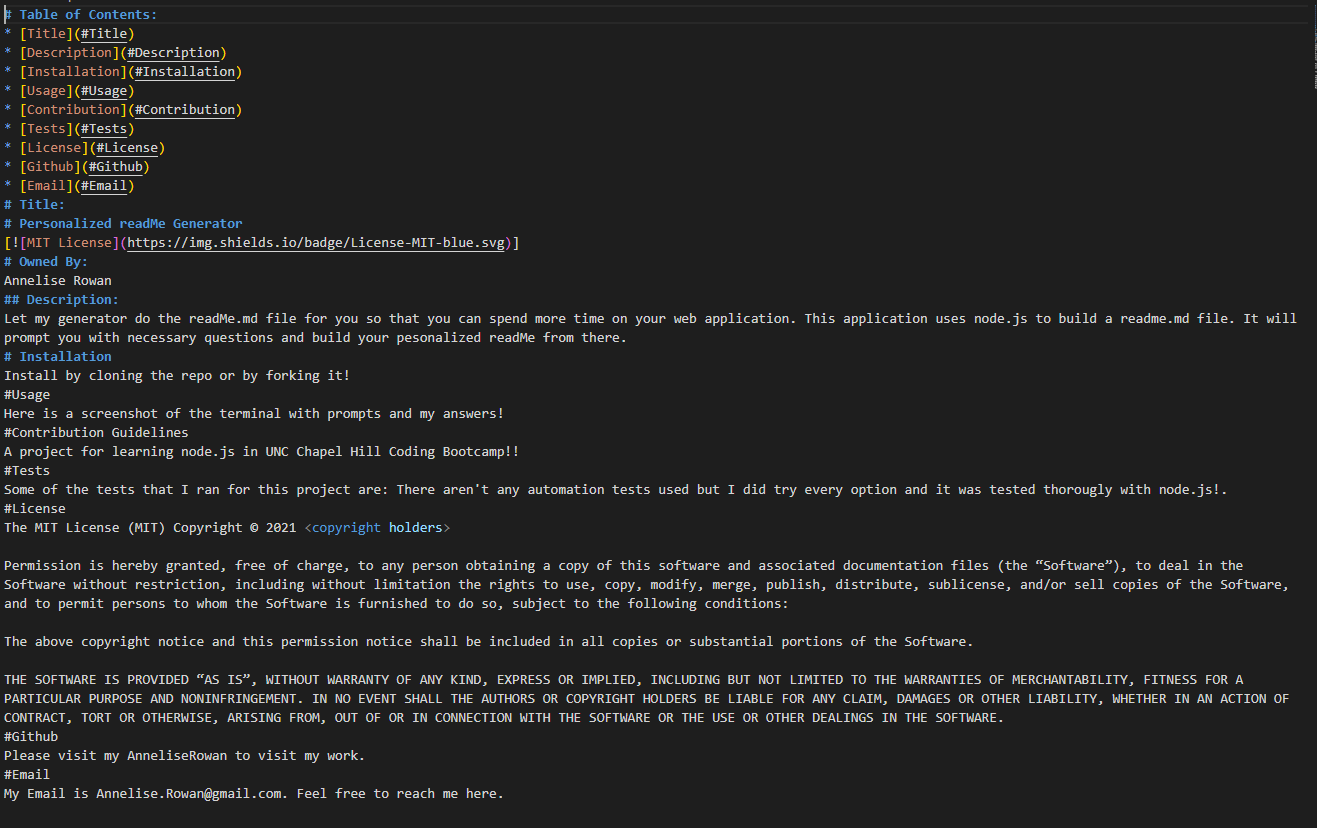
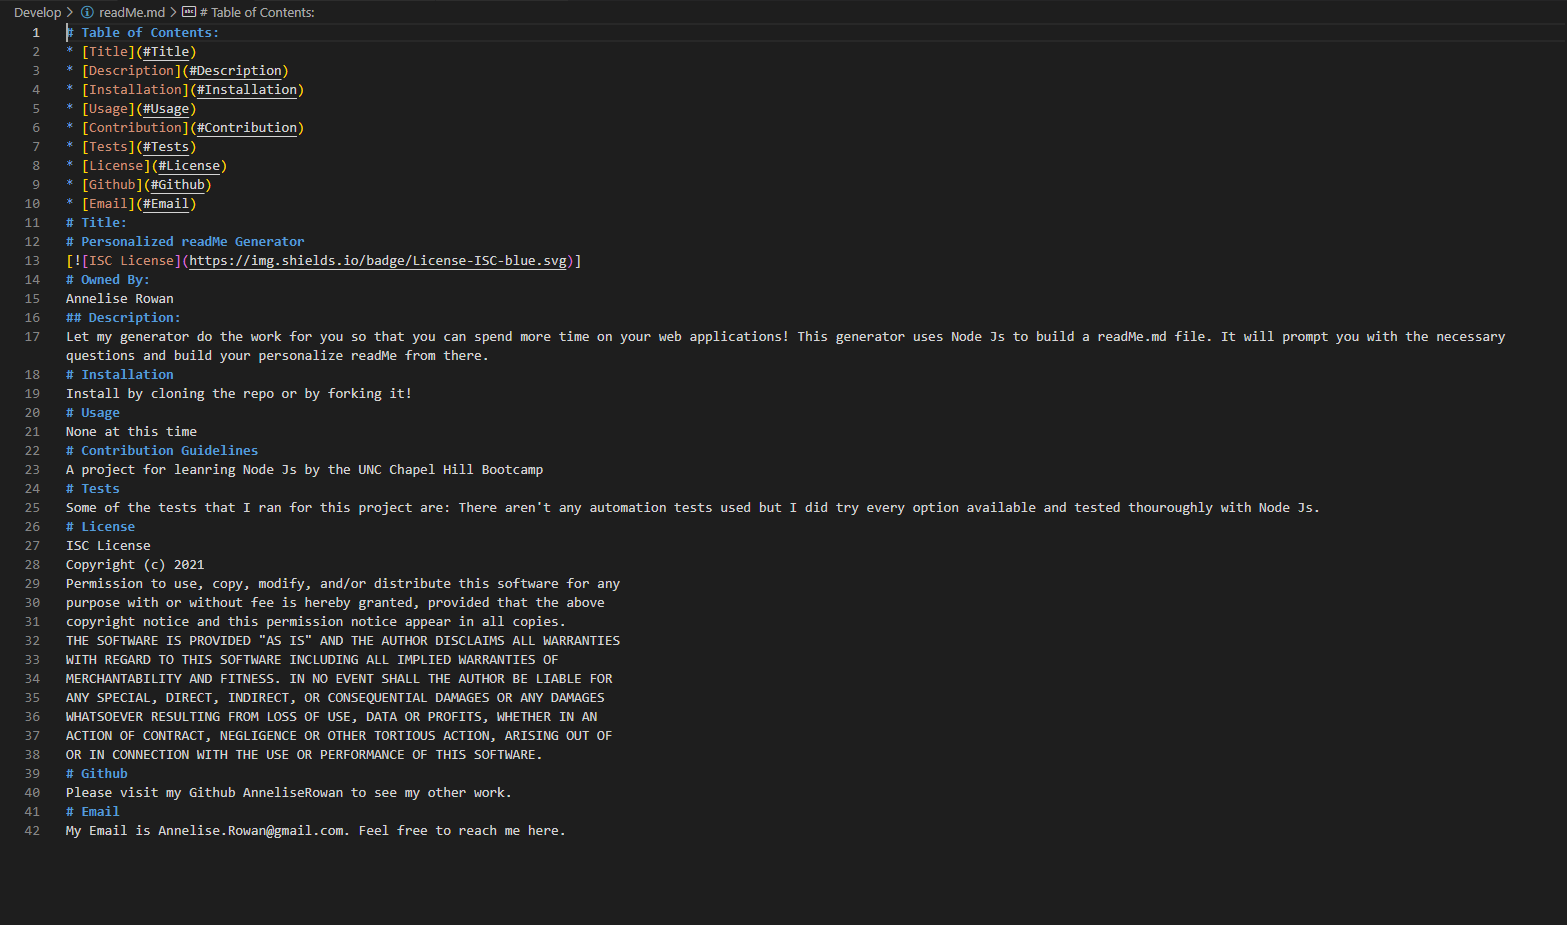
fixed a bug, took a screenshot to show new improved readMe

Changed region(s): [[0.0, 0.0, 0.9962, 0.9662], [0.9962, 0.0, 1.0, 0.1208]]

diff --git a/Develop/example-readMe.md b/Develop/example-readMe.md
@@ -10,28 +10,33 @@
 * [Email](#Email)
 # Title:
 # Personalized readMe Generator
-[![MIT License](https://img.shields.io/badge/License-MIT-blue.svg)]
+[![ISC License](https://img.shields.io/badge/License-ISC-blue.svg)]
 # Owned By:
 Annelise Rowan
 ## Description:
-a personalized readMe generator so you can spend more time on your web application!
+Let my generator do the work for you so that you can spend more time on your web applications! This generator uses Node Js to build a readMe.md file. It will prompt you with the necessary questions and build your personalize readMe from there. 
 # Installation
-Install by cloning for by forking!
+Install by cloning the repo or by forking it!
 # Usage
-no link at this time
+None at this time
 # Contribution Guidelines
-a project for learning node.js homework assigned by the bootcamp at UNC Chapel Hill
+A project for leanring Node Js by the UNC Chapel Hill Bootcamp
 # Tests
-Some of the tests that I ran for this project are: no automation tests done only through node.js.
+Some of the tests that I ran for this project are: There aren't any automation tests used but I did try every option available and tested thouroughly with Node Js.
 # License
-The MIT License (MIT) Copyright © 2021 <copyright holders>
-
-Permission is hereby granted, free of charge, to any person obtaining a copy of this software and associated documentation files (the “Software”), to deal in the Software without restriction, including without limitation the rights to use, copy, modify, merge, publish, distribute, sublicense, and/or sell copies of the Software, and to permit persons to whom the Software is furnished to do so, subject to the following conditions:
-
-The above copyright notice and this permission notice shall be included in all copies or substantial portions of the Software.
-
-THE SOFTWARE IS PROVIDED “AS IS”, WITHOUT WARRANTY OF ANY KIND, EXPRESS OR IMPLIED, INCLUDING BUT NOT LIMITED TO THE WARRANTIES OF MERCHANTABILITY, FITNESS FOR A PARTICULAR PURPOSE AND NONINFRINGEMENT. IN NO EVENT SHALL THE AUTHORS OR COPYRIGHT HOLDERS BE LIABLE FOR ANY CLAIM, DAMAGES OR OTHER LIABILITY, WHETHER IN AN ACTION OF CONTRACT, TORT OR OTHERWISE, ARISING FROM, OUT OF OR IN CONNECTION WITH THE SOFTWARE OR THE USE OR OTHER DEALINGS IN THE SOFTWARE.
+ISC License
+Copyright (c) 2021
+Permission to use, copy, modify, and/or distribute this software for any
+purpose with or without fee is hereby granted, provided that the above
+copyright notice and this permission notice appear in all copies.
+THE SOFTWARE IS PROVIDED "AS IS" AND THE AUTHOR DISCLAIMS ALL WARRANTIES
+WITH REGARD TO THIS SOFTWARE INCLUDING ALL IMPLIED WARRANTIES OF
+MERCHANTABILITY AND FITNESS. IN NO EVENT SHALL THE AUTHOR BE LIABLE FOR
+ANY SPECIAL, DIRECT, INDIRECT, OR CONSEQUENTIAL DAMAGES OR ANY DAMAGES
+WHATSOEVER RESULTING FROM LOSS OF USE, DATA OR PROFITS, WHETHER IN AN
+ACTION OF CONTRACT, NEGLIGENCE OR OTHER TORTIOUS ACTION, ARISING OUT OF
+OR IN CONNECTION WITH THE USE OR PERFORMANCE OF THIS SOFTWARE.
 # Github
-Please visit my AnneliseRowan to visit my work.
+Please visit my Github AnneliseRowan to see my other work.
 # Email
 My Email is Annelise.Rowan@gmail.com. Feel free to reach me here.
